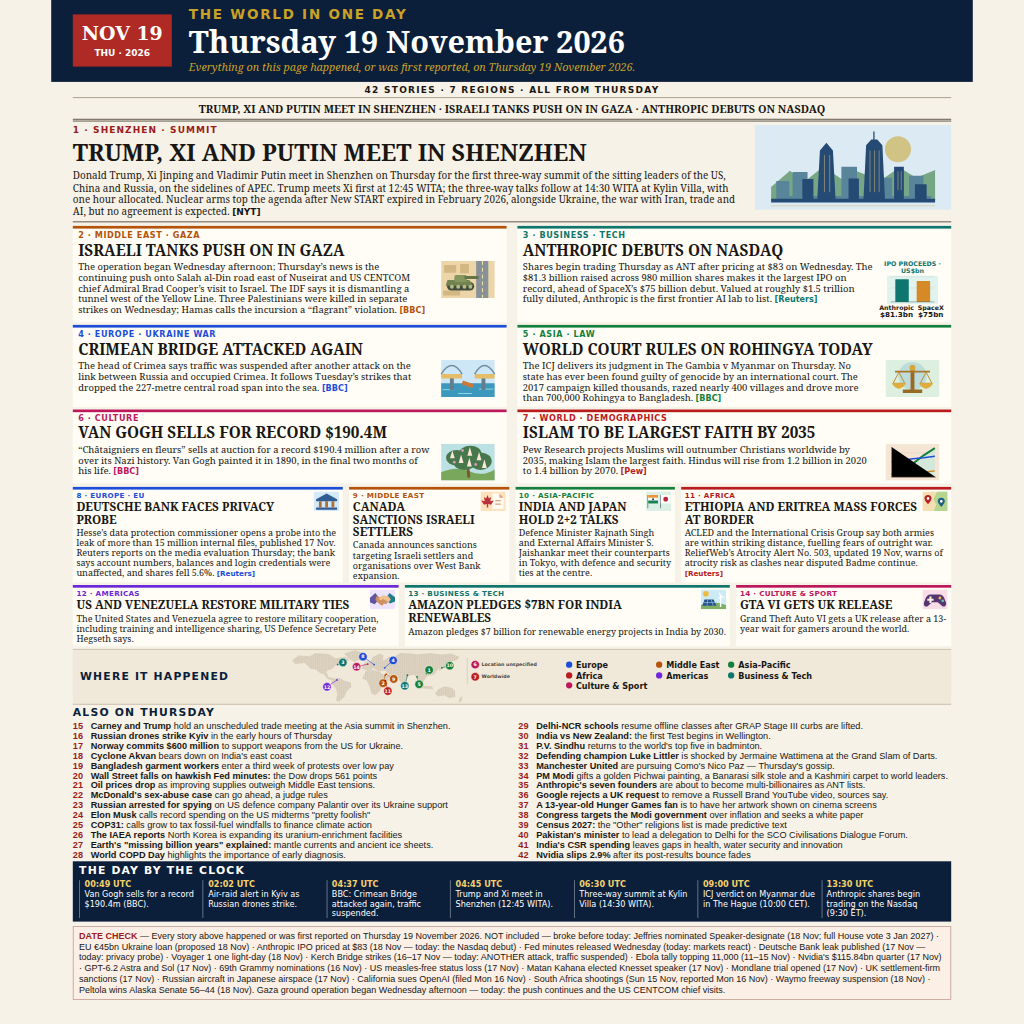
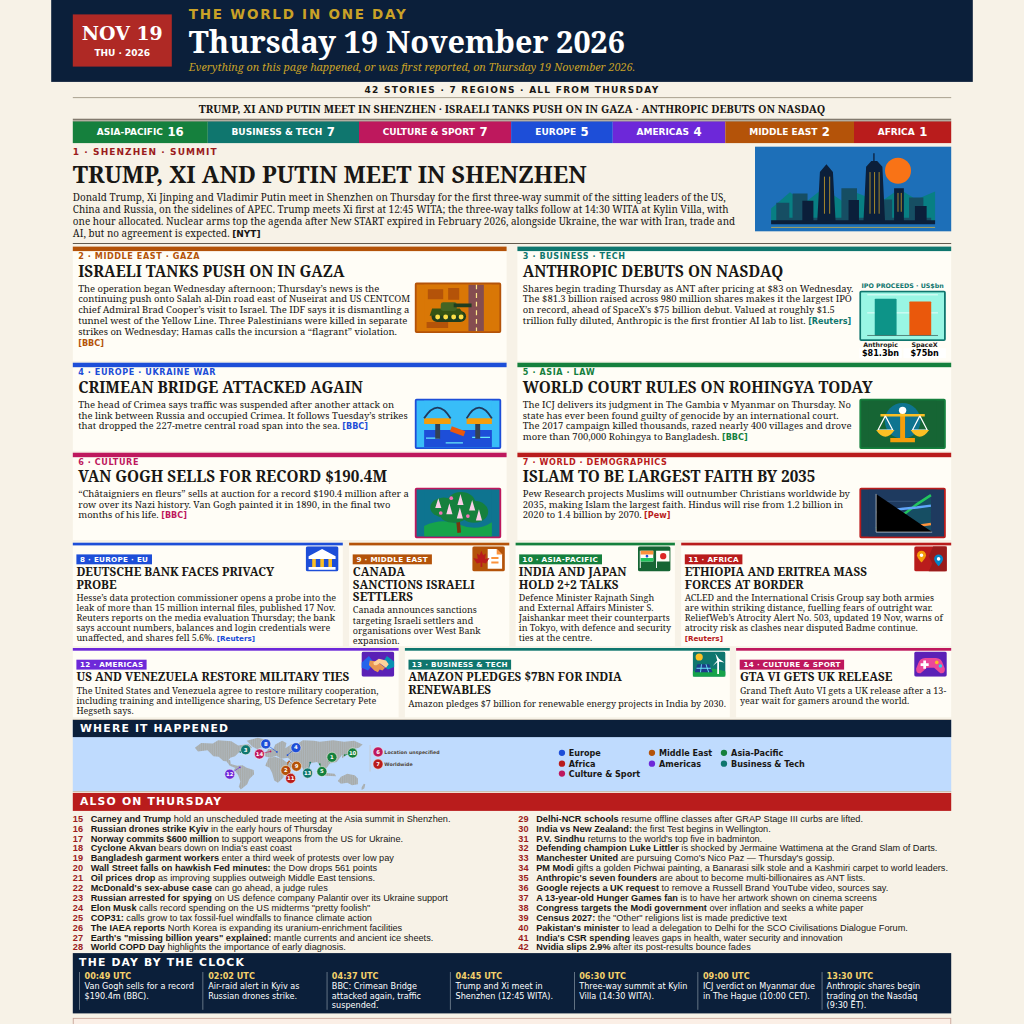
The World in One Day — 19 November 2026: saturated colour revision, region strip

diff --git a/page.html b/page.html
@@ -47,43 +47,55 @@
     .page-frame { width: 1024px; transform-origin: top center; }
     .masthead { padding-block: 8px; }
     .strap { padding-block: 3px; }
+    .region-strip { display: flex; height: 24px; margin: 0 24px; }
+    .region-strip span { flex: 1 0 auto; display: flex; align-items: center; justify-content: center; gap: 5px; background: var(--section); color: white; font: 700 10px/1 var(--labels); }
+    .region-strip strong { font-size: 13px; font-weight: 800; }
     .lead { padding-block: 4px; grid-template-columns: minmax(0, 1fr) 218px; }
     .lead h2 { font-size: 26px; }
     .summary { font-size: 11px; line-height: 1.22; }
-    .skyline { min-height: 94px; height: 94px; background: #dceaf3; }
-    #tier-2 { gap: 3px 12px; padding-block: 4px; }
-    .news-card { border-top-width: 3px; padding: 2px 6px 3px; }
+    .skyline { min-height: 94px; height: 94px; background: #1d6fb8; }
+    #tier-2 { gap: 2px 12px; padding-block: 3px; }
+    .news-card { padding: 1px 6px 2px; }
     .news-card .kicker { margin-bottom: 2px; }
     .news-card h2 { margin-bottom: 3px; font-size: 17px; }
     .news-card p.copy { font-size: 10.5px; line-height: 1.15; }
-    .card-art { width: 74px; margin: 0 0 0 5px; }
-    .card-art svg { height: 41px; }
-    .ipo svg { height: 32px; }
+    .card-art { width: 96px; margin: 0 0 0 5px; }
+    .card-art svg { height: 56px; border: 2px solid var(--section); background: var(--art-bg); }
+    .news-card:nth-child(1) { --art-bg: #d97706; }
+    .news-card:nth-child(2) { --art-bg: #99f6e4; }
+    .news-card:nth-child(3) { --art-bg: #38bdf8; }
+    .news-card:nth-child(4) { --art-bg: #166534; }
+    .news-card:nth-child(5) { --art-bg: #0e7490; }
+    .news-card:nth-child(6) { --art-bg: #1e3a5f; }
+    .ipo svg { height: 56px; }
     .chart-title, .chart-labels { font-size: 7px; line-height: 1; }
-    .chart-labels strong { font-size: 8px; }
+    .chart-labels strong { padding: 1px 0; background: white; color: #000; font-size: 9px; font-weight: 800; }
     .chart-title, .chart-labels { margin-block: 1px; }
 
-    #section-stories { display: grid; grid-template-columns: repeat(16, minmax(0, 1fr)); gap: 3px 7px; margin-bottom: 3px; }
-    .regional-card { grid-column: span 3; border-top: 3px solid var(--section); background: #fffdf6; padding: 2px 4px 2px; }
+    #section-stories { display: grid; grid-template-columns: repeat(16, minmax(0, 1fr)); gap: 2px 7px; margin-bottom: 2px; }
+    .regional-card { grid-column: span 3; border-top: 3px solid var(--section); background: #fffdf6; padding: 1px 4px 1px; }
     .regional-card:nth-child(1), .regional-card:nth-child(4) { grid-column: span 5; }
     .regional-card:nth-child(5), .regional-card:nth-child(6) { grid-column: span 6; }
     .regional-card:nth-child(7) { grid-column: span 4; }
-    .regional-card svg { float: right; width: 28px; height: 22px; margin-left: 3px; }
+    .regional-card svg { float: right; width: 38px; height: 28px; margin-left: 3px; }
     .regional-card p { margin: 0; font-size: 10px; line-height: 1.12; }
-    .regional-card .kicker { color: var(--section); font: 700 8px/1.15 var(--labels); letter-spacing: .04em; margin-bottom: 2px; }
+    .regional-card .kicker { display: inline-block; padding: 1px 4px; background: var(--section); color: white; font: 700 8px/1.15 var(--labels); letter-spacing: .04em; margin-bottom: 2px; }
     .regional-card h2 { margin: 0 0 2px; font-size: 13px; line-height: 1.05; }
     .regional-card .proof { color: var(--section); font-size: 8px; white-space: nowrap; }
 
     .panel-title { margin: 0; color: var(--navy); font: 700 12px/1.15 var(--labels); letter-spacing: .11em; }
-    #where-it-happened { display: grid; grid-template-columns: 190px 330px 1fr; align-items: center; gap: 10px; padding: 0 8px; border-block: 1px solid #c9bdab; background: #f0e8d9; }
+    #where-it-happened { display: grid; grid-template-columns: 530px 1fr; align-items: center; column-gap: 10px; border-block: 1px solid #c9bdab; background: #bfdbfe; }
+    #where-it-happened .panel-title, #also-on-thursday .panel-title { padding: 3px 8px; color: white; }
+    #where-it-happened .panel-title { grid-column: 1 / -1; background: var(--navy); }
+    #also-on-thursday .panel-title { background: #b91c1c; }
     #where-it-happened svg { display: block; width: 100%; height: 60px; }
     .map-legend { list-style: none; padding: 0; margin: 0; display: grid; grid-template-columns: repeat(3, max-content); gap: 2px 10px; font: 700 9px/1.05 var(--labels); }
     .map-legend li::before { content: ""; display: inline-block; width: 7px; height: 7px; margin-right: 4px; border-radius: 50%; background: var(--section); }
     .pin-head { stroke: #fff7e8; stroke-width: 1; }
-    .map-pin text { fill: white; text-anchor: middle; font: 700 9px var(--labels); }
+    .map-pin text { fill: white; text-anchor: middle; font: 800 10px var(--labels); }
     .map-note { fill: #51483b; font: 700 9px var(--labels); }
 
-    #also-on-thursday { padding: 2px 0; }
+    #also-on-thursday { padding: 1px 0; }
     #also-on-thursday ol { list-style: none; margin: 3px 0 0; padding: 0; display: grid; grid-auto-flow: column; grid-template-rows: repeat(14, auto); grid-template-columns: repeat(2, minmax(0, 1fr)); column-gap: 14px; }
     #also-on-thursday li { font: 10.2px/11px Arial, sans-serif; white-space: nowrap; }
     #also-on-thursday b { display: inline-block; width: 17px; color: #9b1c1c; }
@@ -109,6 +121,15 @@
     </div>
     <p class="strap count">42 STORIES · 7 REGIONS · ALL FROM THURSDAY</p>
     <p class="strap headlines">TRUMP, XI AND PUTIN MEET IN SHENZHEN · ISRAELI TANKS PUSH ON IN GAZA · ANTHROPIC DEBUTS ON NASDAQ</p>
+    <div class="region-strip" aria-label="Story totals by region">
+      <span style="--section:#15803d">ASIA-PACIFIC <strong>16</strong></span>
+      <span style="--section:#0f766e">BUSINESS &amp; TECH <strong>7</strong></span>
+      <span style="--section:#be185d">CULTURE &amp; SPORT <strong>7</strong></span>
+      <span style="--section:#1d4ed8">EUROPE <strong>5</strong></span>
+      <span style="--section:#6d28d9">AMERICAS <strong>4</strong></span>
+      <span style="--section:#b45309">MIDDLE EAST <strong>2</strong></span>
+      <span style="--section:#b91c1c">AFRICA <strong>1</strong></span>
+    </div>
   </header>
   <main>
     <article class="lead">
@@ -118,11 +139,11 @@
         <p class="summary">Donald Trump, Xi Jinping and Vladimir Putin meet in Shenzhen on Thursday for the first three-way summit of the sitting leaders of the US, China and Russia, on the sidelines of APEC. Trump meets Xi first at 12:45 WITA; the three-way talks follow at 14:30 WITA at Kylin Villa, with one hour allocated. Nuclear arms top the agenda after New START expired in February 2026, alongside Ukraine, the war with Iran, trade and AI, but no agreement is expected. <span class="proof">[NYT]</span></p>
       </div>
       <svg class="skyline" viewBox="0 0 252 130" role="img" aria-label="Schematic illustration of the Shenzhen skyline">
-        <circle cx="195" cy="37" r="20" fill="#c9a227" opacity=".55"/>
-        <path fill="#76a685" d="M0 95L29 70l22 17 29-23 30 20 22-13 36 14 29-20 26 16 29-12v46H0z"/>
-        <path fill="#588599" d="M8 109V86h20v23h5V72h23v37h52V64h24v45h36V81h18v28h26V78h22v31h12v8H8z"/>
-        <path fill="#254b75" d="M48 113V83h17v30h6L75 39l10-12 10 12 4 74h20V82h16v31h7l4-82 8-9h3V10h2v12h4l8 9 4 82h14V64h15v49h17V91h18v22h13v6H0v-6z"/>
-        <path fill="none" stroke="#d3bb75" opacity=".8" d="M82 46v57m8-57v57m62-64v64m7-64v64m7-64v64m29-32v29m5-29v29M0 124h252"/>
+        <circle cx="195" cy="37" r="20" fill="#f97316"/>
+        <path fill="#087f83" d="M0 95L29 70l22 17 29-23 30 20 22-13 36 14 29-20 26 16 29-12v46H0z"/>
+        <path fill="#164e63" d="M8 109V86h20v23h5V72h23v37h52V64h24v45h36V81h18v28h26V78h22v31h12v8H8z"/>
+        <path fill="#0b1f3a" d="M48 113V83h17v30h6L75 39l10-12 10 12 4 74h20V82h16v31h7l4-82 8-9h3V10h2v12h4l8 9 4 82h14V64h15v49h17V91h18v22h13v6H0v-6z"/>
+        <path fill="none" stroke="#fbbf24" d="M82 46v57m8-57v57m62-64v64m7-64v64m7-64v64m29-32v29m5-29v29M0 124h252"/>
       </svg>
     </article>
     <section id="tier-2" aria-label="Six major stories">
@@ -131,13 +152,13 @@
         <h2>ISRAELI TANKS PUSH ON IN GAZA</h2>
         <figure class="card-art">
           <svg viewBox="0 0 110 76" role="img" aria-label="Colored schematic of a tank beside the Salah al-Din road">
-            <path fill="#edd5aa" d="M0 0h110v76H0z"/><path fill="#879197" d="M72 0h25v76H72z"/>
-            <path stroke="#f8e9ac" stroke-width="2" stroke-dasharray="8 6" d="M85 0v76"/>
-            <path fill="#d3b782" d="M6 8h25v16H6zm33-2h18v19H39zM4 61h35v10H4z"/>
-            <rect x="12" y="43" width="56" height="18" rx="9" fill="#424c3c"/>
-            <path fill="#738451" d="M13 39h45l8 12H9z"/><rect x="27" y="29" width="26" height="14" rx="4" fill="#87965c"/>
-            <path stroke="#647449" stroke-width="6" d="M48 34h29"/>
-            <g fill="#b5bc86"><circle cx="22" cy="53" r="4"/><circle cx="35" cy="53" r="4"/><circle cx="48" cy="53" r="4"/><circle cx="60" cy="53" r="4"/></g>
+            <path fill="#d97706" d="M0 0h110v76H0z"/><path fill="#854d50" d="M72 0h25v76H72z"/>
+            <path stroke="#fde68a" stroke-width="2" stroke-dasharray="8 6" d="M85 0v76"/>
+            <path fill="#b45309" d="M6 8h25v16H6zm33-2h18v19H39zM4 61h35v10H4z"/>
+            <rect x="12" y="43" width="56" height="18" rx="9" fill="#1f3d1f"/>
+            <path fill="#365314" d="M13 39h45l8 12H9z"/><rect x="27" y="29" width="26" height="14" rx="4" fill="#446523"/>
+            <path stroke="#1f3d1f" stroke-width="6" d="M48 34h29"/>
+            <g fill="#fde047"><circle cx="22" cy="53" r="4"/><circle cx="35" cy="53" r="4"/><circle cx="48" cy="53" r="4"/><circle cx="60" cy="53" r="4"/></g>
           </svg>
         </figure>
         <p class="copy">The operation began Wednesday afternoon; Thursday’s news is the continuing push onto Salah al-Din road east of Nuseirat and US CENTCOM chief Admiral Brad Cooper’s visit to Israel. The IDF says it is dismantling a tunnel west of the Yellow Line. Three Palestinians were killed in separate strikes on Wednesday; Hamas calls the incursion a “flagrant” violation. <span class="proof">[BBC]</span></p>
@@ -148,10 +169,10 @@
         <figure class="card-art ipo">
           <figcaption class="chart-title">IPO PROCEEDS · US$bn</figcaption>
           <svg viewBox="0 0 110 62" role="img" aria-label="Bar chart from zero: Anthropic raises 81.3 billion dollars versus SpaceX at 75 billion">
-            <path fill="#e1f3ee" d="M0 0h110v62H0z"/>
-            <path stroke="#c2d8d1" d="M8 27h94M8 3h94"/>
-            <rect x="18" y="8.22" width="29" height="48.78" rx="1" fill="#0f766e"/>
-            <rect x="64" y="12" width="29" height="45" rx="1" fill="#d58a27"/>
+            <path fill="#99f6e4" d="M0 0h110v62H0z"/>
+            <path stroke="#ffffff" d="M8 27h94M8 3h94"/>
+            <rect x="18" y="8.22" width="29" height="48.78" rx="1" fill="#0d9488"/>
+            <rect x="64" y="12" width="29" height="45" rx="1" fill="#ea580c"/>
             <path stroke="#3c5f59" d="M8 57h94"/>
           </svg>
           <div class="chart-labels"><span>Anthropic<strong>$81.3bn</strong></span><span>SpaceX<strong>$75bn</strong></span></div>
@@ -163,12 +184,12 @@
         <h2>CRIMEAN BRIDGE ATTACKED AGAIN</h2>
         <figure class="card-art">
           <svg viewBox="0 0 110 76" role="img" aria-label="Colored bridge schematic with a broken central road span over blue water">
-            <path fill="#cde7f6" d="M0 0h110v76H0z"/><path fill="#3d98bd" d="M0 48h110v28H0z"/>
-            <path stroke="#8ed7e3" stroke-width="2" d="M3 61h22m10 8h28m15-9h29"/>
-            <path fill="#647d8c" d="M18 31h8v31h-8zm65 0h8v31h-8z"/>
-            <path fill="#e5bc67" d="M0 29h43v9H0zm69 0h41v9H69z"/>
-            <path fill="#c87a3d" d="m45 42 22 8-3 8-22-8z"/>
-            <path stroke="#718fa2" stroke-width="3" fill="none" d="M0 29Q22-6 43 29m26 0Q89-6 110 29"/>
+            <path fill="#38bdf8" d="M0 0h110v76H0z"/><path fill="#1d4ed8" d="M0 48h110v28H0z"/>
+            <path stroke="#67e8f9" stroke-width="2" d="M3 61h22m10 8h28m15-9h29"/>
+            <path fill="#334155" d="M18 31h8v31h-8zm65 0h8v31h-8z"/>
+            <path fill="#f59e0b" d="M0 29h43v9H0zm69 0h41v9H69z"/>
+            <path fill="#ea580c" d="m45 42 22 8-3 8-22-8z"/>
+            <path stroke="#1e3a5f" stroke-width="3" fill="none" d="M0 29Q22-6 43 29m26 0Q89-6 110 29"/>
           </svg>
         </figure>
         <p class="copy">The head of Crimea says traffic was suspended after another attack on the link between Russia and occupied Crimea. It follows Tuesday’s strikes that dropped the 227-metre central road span into the sea. <span class="proof">[BBC]</span></p>
@@ -178,11 +199,11 @@
         <h2>WORLD COURT RULES ON ROHINGYA TODAY</h2>
         <figure class="card-art">
           <svg viewBox="0 0 110 76" role="img" aria-label="Golden scales of justice on a green and blue background">
-            <path fill="#ddefdf" d="M0 0h110v76H0z"/><circle cx="55" cy="33" r="29" fill="#bedcdb"/>
-            <path fill="#986b25" d="M51 18h8v43h-8zM35 61h40v7H35z"/>
-            <circle cx="55" cy="16" r="6" fill="#d6a63a"/><path stroke="#aa7628" stroke-width="4" d="M19 24h72"/>
-            <path stroke="#bb8b2e" stroke-width="2" fill="none" d="m27 25-12 23h24L27 25m56 0L71 48h24L83 25"/>
-            <path fill="#e1ac3c" d="M12 48h30q-15 22-30 0m56 0h30q-15 22-30 0"/>
+            <path fill="#166534" d="M0 0h110v76H0z"/><circle cx="55" cy="33" r="29" fill="#0e7490"/>
+            <path fill="#f59e0b" d="M51 18h8v43h-8zM35 61h40v7H35z"/>
+            <circle cx="55" cy="16" r="6" fill="#ffffff"/><path stroke="#fbbf24" stroke-width="4" d="M19 24h72"/>
+            <path stroke="#ffffff" stroke-width="2" fill="none" d="m27 25-12 23h24L27 25m56 0L71 48h24L83 25"/>
+            <path fill="#fbbf24" d="M12 48h30q-15 22-30 0m56 0h30q-15 22-30 0"/>
           </svg>
         </figure>
         <p class="copy">The ICJ delivers its judgment in The Gambia v Myanmar on Thursday. No state has ever been found guilty of genocide by an international court. The 2017 campaign killed thousands, razed nearly 400 villages and drove more than 700,000 Rohingya to Bangladesh. <span class="proof">[BBC]</span></p>
@@ -192,11 +213,11 @@
         <h2>VAN GOGH SELLS FOR RECORD $190.4M</h2>
         <figure class="card-art">
           <svg viewBox="0 0 110 76" role="img" aria-label="Original colored schematic of a flowering chestnut tree">
-            <path fill="#bce1e5" d="M0 0h110v76H0z"/><path fill="#79a85c" d="M0 59q30-14 58-2t52-4v23H0z"/>
-            <path stroke="#805335" stroke-width="6" fill="none" d="M57 70 53 30m2 19L31 29m24 12 23-20"/>
-            <g fill="#47784b"><ellipse cx="32" cy="29" rx="22" ry="16"/><ellipse cx="60" cy="21" rx="23" ry="17"/><ellipse cx="81" cy="36" rx="23" ry="18"/><ellipse cx="48" cy="41" rx="22" ry="13"/></g>
-            <g fill="#fce5da"><path d="m23 14-5 16h10zm18 8-5 18h10zM59 7l-5 18h10zm19 10-5 17h10zm11 15-5 18h10zM58 29l-5 18h10z"/></g>
-            <g fill="#d49aaf"><circle cx="27" cy="38" r="3"/><circle cx="71" cy="43" r="3"/><circle cx="44" cy="14" r="3"/></g>
+            <path fill="#0e7490" d="M0 0h110v76H0z"/><path fill="#16a34a" d="M0 59q30-14 58-2t52-4v23H0z"/>
+            <path stroke="#78350f" stroke-width="6" fill="none" d="M57 70 53 30m2 19L31 29m24 12 23-20"/>
+            <g fill="#15803d"><ellipse cx="32" cy="29" rx="22" ry="16"/><ellipse cx="60" cy="21" rx="23" ry="17"/><ellipse cx="81" cy="36" rx="23" ry="18"/><ellipse cx="48" cy="41" rx="22" ry="13"/></g>
+            <g fill="#fbcfe8"><path d="m23 14-5 16h10zm18 8-5 18h10zM59 7l-5 18h10zm19 10-5 17h10zm11 15-5 18h10zM58 29l-5 18h10z"/></g>
+            <g fill="#f472b6"><circle cx="27" cy="38" r="3"/><circle cx="71" cy="43" r="3"/><circle cx="44" cy="14" r="3"/></g>
           </svg>
         </figure>
         <p class="copy">“Châtaigniers en fleurs” sells at auction for a record $190.4 million after a row over its Nazi history. Van Gogh painted it in 1890, in the final two months of his life. <span class="proof">[BBC]</span></p>
@@ -206,48 +227,48 @@
         <h2>ISLAM TO BE LARGEST FAITH BY 2035</h2>
         <figure class="card-art">
           <svg viewBox="0 0 110 76" role="img" aria-label="Illustrative rising lines for religious population trends; schematic, not a quantitative plot">
-            <path fill="#f4e5d5" d="M0 0h110v76H0z"/>
-            <path stroke="#dfccbb" d="M12 19h89M12 37h89M12 55h89"/>
-            <path fill="#d3e7da" d="m12 63 22-9 22-13 22-17 23-15v57H12z"/>
-            <path stroke="#15803d" stroke-width="4" fill="none" d="m12 63 22-9 22-13 22-17 23-15"/>
-            <path stroke="#1d4ed8" stroke-width="3" fill="none" d="m12 37 22-3 22-3 22-2 23-3"/>
-            <path stroke="#ce8422" stroke-width="3" fill="none" d="m12 66 22-2 22-2 22-3 23-3"/>
-            <path stroke="#8c7562" d="M12 7v62h91"/>
+            <path fill="#1e3a5f" d="M0 0h110v76H0z"/>
+            <path stroke="#45668c" d="M12 19h89M12 37h89M12 55h89"/>
+            <path fill="#164e63" d="m12 63 22-9 22-13 22-17 23-15v57H12z"/>
+            <path stroke="#22c55e" stroke-width="4" fill="none" d="m12 63 22-9 22-13 22-17 23-15"/>
+            <path stroke="#60a5fa" stroke-width="4" fill="none" d="m12 37 22-3 22-3 22-2 23-3"/>
+            <path stroke="#fb923c" stroke-width="4" fill="none" d="m12 66 22-2 22-2 22-3 23-3"/>
+            <path stroke="#ffffff" d="M12 7v62h91"/>
           </svg>
         </figure>
         <p class="copy">Pew Research projects Muslims will outnumber Christians worldwide by 2035, making Islam the largest faith. Hindus will rise from 1.2 billion in 2020 to 1.4 billion by 2070. <span class="proof">[Pew]</span></p>
       </article>
     </section>
     <section id="section-stories" aria-label="Seven regional stories">
-      <article class="regional-card" style="--section:#1d4ed8"><svg viewBox="0 0 36 28" aria-hidden="true"><rect width="36" height="28" rx="2" fill="#d4eafa"/><path fill="#315b93" d="M3 11 18 3l15 8v3H3zM3 23h30v3H3z"/><path fill="#ac7135" d="M7 14h4v9H7zm9 0h4v9h-4zm9 0h4v9h-4z"/></svg><p class="kicker">8 · EUROPE · EU</p><h2>DEUTSCHE BANK FACES PRIVACY PROBE</h2><p>Hesse’s data protection commissioner opens a probe into the leak of more than 15 million internal files, published 17 Nov. Reuters reports on the media evaluation Thursday; the bank says account numbers, balances and login credentials were unaffected, and shares fell 5.6%. <span class="proof">[Reuters]</span></p></article>
-      <article class="regional-card" style="--section:#b45309"><svg viewBox="0 0 36 28" aria-hidden="true"><rect width="36" height="28" rx="2" fill="#ffe1bb"/><path fill="#fffaf1" d="M17 3h10l6 6v16H17z"/><path fill="#d8a47c" d="M27 3v6h6zM21 12h8v2h-8zm0 5h8v2h-8z"/><path fill="#bb303b" d="m10 5 2 5 3-2-1 6 5-1-4 6-4-1v5H9v-5l-4 1-4-6 5 1-1-6 3 2z"/></svg><p class="kicker">9 · MIDDLE EAST</p><h2>CANADA SANCTIONS ISRAELI SETTLERS</h2><p>Canada announces sanctions targeting Israeli settlers and organisations over West Bank expansion.</p></article>
-      <article class="regional-card" style="--section:#15803d"><svg viewBox="0 0 36 28" aria-hidden="true"><rect width="36" height="28" rx="2" fill="#dbefe5"/><path fill="#456570" d="M2 5h1v19H2zm18 0h1v19h-1z"/><path fill="#fffdf7" d="M3 5h14v12H3zm18 0h14v12H21z"/><path fill="#ef9535" d="M3 5h14v4H3z"/><path fill="#168253" d="M3 13h14v4H3z"/><path fill="#193d90" d="M10 9.5a1.5 1.5 0 1 0 0 3a1.5 1.5 0 1 0 0-3"/><path fill="#be2541" d="M28 7.5a3.5 3.5 0 1 0 0 7a3.5 3.5 0 1 0 0-7"/></svg><p class="kicker">10 · ASIA-PACIFIC</p><h2>INDIA AND JAPAN HOLD 2+2 TALKS</h2><p>Defence Minister Rajnath Singh and External Affairs Minister S. Jaishankar meet their counterparts in Tokyo, with defence and security ties at the centre.</p></article>
-      <article class="regional-card" style="--section:#b91c1c"><svg viewBox="0 0 36 28" aria-hidden="true"><rect width="36" height="28" rx="2" fill="#f4dfb2"/><path fill="#b4d58d" d="M21 0h15v28H16l4-9-4-8z"/><path fill="#b91c1c" d="M8 5a5 5 0 0 0-5 5c0 3 5 8 5 8s5-5 5-8a5 5 0 0 0-5-5"/><path fill="#215f85" d="M27 9a5 5 0 0 0-5 5c0 3 5 8 5 8s5-5 5-8a5 5 0 0 0-5-5"/><path fill="#fff" d="M8 8a2 2 0 1 0 0 4a2 2 0 1 0 0-4m19 4a2 2 0 1 0 0 4a2 2 0 1 0 0-4"/></svg><p class="kicker">11 · AFRICA</p><h2>ETHIOPIA AND ERITREA MASS FORCES AT BORDER</h2><p>ACLED and the International Crisis Group say both armies are within striking distance, fuelling fears of outright war. ReliefWeb’s Atrocity Alert No. 503, updated 19 Nov, warns of atrocity risk as clashes near disputed Badme continue. <span class="proof">[Reuters]</span></p></article>
-      <article class="regional-card" style="--section:#6d28d9"><svg viewBox="0 0 36 28" aria-hidden="true"><rect width="36" height="28" rx="2" fill="#eee3ff"/><path fill="#6054a0" d="m0 12 8-7 6 8-7 8L0 18z"/><path fill="#227f89" d="m36 11-8-6-6 9 7 6 7-3z"/><path fill="#d09060" d="m9 10 8 1 9 7-3 3-3-1-2 3-4-2-6-6z"/><path fill="#f2bf8d" d="m27 10-8-2-6 4q0 4 4 3l3-2 7 5 3-4z"/></svg><p class="kicker">12 · AMERICAS</p><h2>US AND VENEZUELA RESTORE MILITARY TIES</h2><p>The United States and Venezuela agree to restore military cooperation, including training and intelligence sharing, US Defence Secretary Pete Hegseth says.</p></article>
-      <article class="regional-card" style="--section:#0f766e"><svg viewBox="0 0 36 28" aria-hidden="true"><rect width="36" height="28" rx="2" fill="#cdebf4"/><path fill="#7fb065" d="M0 22q14-7 36 0v6H0z"/><path fill="#f1b93e" d="M7 2a4 4 0 1 0 0 8a4 4 0 1 0 0-8"/><path fill="#285089" d="M5 14h13l4 9H2z"/><path fill="#85badd" d="M4 18h16v1H4zm5-4h1l-1 9H8zm5 0h1l3 9h-1z"/><path fill="#fff" d="M27 9h2v16h-2zM27 10l-2-8 4 6 6 4-7-1-6 5z"/></svg><p class="kicker">13 · BUSINESS &amp; TECH</p><h2>AMAZON PLEDGES $7BN FOR INDIA RENEWABLES</h2><p>Amazon pledges $7 billion for renewable energy projects in India by 2030.</p></article>
-      <article class="regional-card" style="--section:#be185d"><svg viewBox="0 0 36 28" aria-hidden="true"><rect width="36" height="28" rx="2" fill="#f8dce8"/><path fill="#54376f" d="M12 7h12q6 0 8 7l2 5q0 6-5 5l-7-6h-8l-7 6q-5 1-5-5l2-5q2-7 8-7"/><path fill="#fff1df" d="M10 10h3v3h3v3h-3v3h-3v-3H7v-3h3z"/><path fill="#f8b74f" d="M25 10a2 2 0 1 0 0 4a2 2 0 1 0 0-4"/><path fill="#57c3b9" d="M29 14a2 2 0 1 0 0 4a2 2 0 1 0 0-4"/></svg><p class="kicker">14 · CULTURE &amp; SPORT</p><h2>GTA VI GETS UK RELEASE</h2><p>Grand Theft Auto VI gets a UK release after a 13-year wait for gamers around the world.</p></article>
+      <article class="regional-card" style="--section:#1d4ed8"><svg viewBox="0 0 36 28" aria-hidden="true"><rect width="36" height="28" rx="2" fill="#1d4ed8"/><path fill="#fff" d="M3 11 18 3l15 8v3H3zM3 23h30v3H3z"/><path fill="#fbbf24" d="M7 14h4v9H7zm9 0h4v9h-4zm9 0h4v9h-4z"/></svg><p class="kicker">8 · EUROPE · EU</p><h2>DEUTSCHE BANK FACES PRIVACY PROBE</h2><p>Hesse’s data protection commissioner opens a probe into the leak of more than 15 million internal files, published 17 Nov. Reuters reports on the media evaluation Thursday; the bank says account numbers, balances and login credentials were unaffected, and shares fell 5.6%. <span class="proof">[Reuters]</span></p></article>
+      <article class="regional-card" style="--section:#b45309"><svg viewBox="0 0 36 28" aria-hidden="true"><rect width="36" height="28" rx="2" fill="#b45309"/><path fill="#fff" d="M17 3h10l6 6v16H17z"/><path fill="#fb923c" d="M27 3v6h6zM21 12h8v2h-8zm0 5h8v2h-8z"/><path fill="#b91c1c" d="m10 5 2 5 3-2-1 6 5-1-4 6-4-1v5H9v-5l-4 1-4-6 5 1-1-6 3 2z"/></svg><p class="kicker">9 · MIDDLE EAST</p><h2>CANADA SANCTIONS ISRAELI SETTLERS</h2><p>Canada announces sanctions targeting Israeli settlers and organisations over West Bank expansion.</p></article>
+      <article class="regional-card" style="--section:#15803d"><svg viewBox="0 0 36 28" aria-hidden="true"><rect width="36" height="28" rx="2" fill="#166534"/><path fill="#fff" d="M2 5h1v19H2zm18 0h1v19h-1z"/><path fill="#fffdf7" d="M3 5h14v12H3zm18 0h14v12H21z"/><path fill="#fb923c" d="M3 5h14v4H3z"/><path fill="#22c55e" d="M3 13h14v4H3z"/><path fill="#1d4ed8" d="M10 9.5a1.5 1.5 0 1 0 0 3a1.5 1.5 0 1 0 0-3"/><path fill="#dc2626" d="M28 7.5a3.5 3.5 0 1 0 0 7a3.5 3.5 0 1 0 0-7"/></svg><p class="kicker">10 · ASIA-PACIFIC</p><h2>INDIA AND JAPAN HOLD 2+2 TALKS</h2><p>Defence Minister Rajnath Singh and External Affairs Minister S. Jaishankar meet their counterparts in Tokyo, with defence and security ties at the centre.</p></article>
+      <article class="regional-card" style="--section:#b91c1c"><svg viewBox="0 0 36 28" aria-hidden="true"><rect width="36" height="28" rx="2" fill="#b91c1c"/><path fill="#991b1b" d="M21 0h15v28H16l4-9-4-8z"/><path fill="#f59e0b" d="M8 5a5 5 0 0 0-5 5c0 3 5 8 5 8s5-5 5-8a5 5 0 0 0-5-5"/><path fill="#0284c7" d="M27 9a5 5 0 0 0-5 5c0 3 5 8 5 8s5-5 5-8a5 5 0 0 0-5-5"/><path fill="#fff" d="M8 8a2 2 0 1 0 0 4a2 2 0 1 0 0-4m19 4a2 2 0 1 0 0 4a2 2 0 1 0 0-4"/></svg><p class="kicker">11 · AFRICA</p><h2>ETHIOPIA AND ERITREA MASS FORCES AT BORDER</h2><p>ACLED and the International Crisis Group say both armies are within striking distance, fuelling fears of outright war. ReliefWeb’s Atrocity Alert No. 503, updated 19 Nov, warns of atrocity risk as clashes near disputed Badme continue. <span class="proof">[Reuters]</span></p></article>
+      <article class="regional-card" style="--section:#6d28d9"><svg viewBox="0 0 36 28" aria-hidden="true"><rect width="36" height="28" rx="2" fill="#5b21b6"/><path fill="#2563eb" d="m0 12 8-7 6 8-7 8L0 18z"/><path fill="#0891b2" d="m36 11-8-6-6 9 7 6 7-3z"/><path fill="#e89753" d="m9 10 8 1 9 7-3 3-3-1-2 3-4-2-6-6z"/><path fill="#ffd39b" d="m27 10-8-2-6 4q0 4 4 3l3-2 7 5 3-4z"/></svg><p class="kicker">12 · AMERICAS</p><h2>US AND VENEZUELA RESTORE MILITARY TIES</h2><p>The United States and Venezuela agree to restore military cooperation, including training and intelligence sharing, US Defence Secretary Pete Hegseth says.</p></article>
+      <article class="regional-card" style="--section:#0f766e"><svg viewBox="0 0 36 28" aria-hidden="true"><rect width="36" height="28" rx="2" fill="#0f766e"/><path fill="#16a34a" d="M0 22q14-7 36 0v6H0z"/><path fill="#fbbf24" d="M7 2a4 4 0 1 0 0 8a4 4 0 1 0 0-8"/><path fill="#1e3a8a" d="M5 14h13l4 9H2z"/><path fill="#67e8f9" d="M4 18h16v1H4zm5-4h1l-1 9H8zm5 0h1l3 9h-1z"/><path fill="#fff" d="M27 9h2v16h-2zM27 10l-2-8 4 6 6 4-7-1-6 5z"/></svg><p class="kicker">13 · BUSINESS &amp; TECH</p><h2>AMAZON PLEDGES $7BN FOR INDIA RENEWABLES</h2><p>Amazon pledges $7 billion for renewable energy projects in India by 2030.</p></article>
+      <article class="regional-card" style="--section:#be185d"><svg viewBox="0 0 36 28" aria-hidden="true"><rect width="36" height="28" rx="2" fill="#5b21b6"/><path fill="#ec4899" d="M12 7h12q6 0 8 7l2 5q0 6-5 5l-7-6h-8l-7 6q-5 1-5-5l2-5q2-7 8-7"/><path fill="#fff" d="M10 10h3v3h3v3h-3v3h-3v-3H7v-3h3z"/><path fill="#fbbf24" d="M25 10a2 2 0 1 0 0 4a2 2 0 1 0 0-4"/><path fill="#22d3ee" d="M29 14a2 2 0 1 0 0 4a2 2 0 1 0 0-4"/></svg><p class="kicker">14 · CULTURE &amp; SPORT</p><h2>GTA VI GETS UK RELEASE</h2><p>Grand Theft Auto VI gets a UK release after a 13-year wait for gamers around the world.</p></article>
     </section>
     <section id="where-it-happened">
       <h2 class="panel-title">WHERE IT HAPPENED</h2>
       <svg viewBox="0 0 458 102" role="img" aria-label="Dotted world map: numbered story pins show locations or geographic focus. Story 6 has no location in the source; story 7 is worldwide.">
-        <defs><pattern id="land-dots" width="3.5" height="3.5" patternUnits="userSpaceOnUse"><circle cx="1.65" cy="1.65" r="1.05" fill="#a39276"/></pattern></defs>
+        <defs><pattern id="land-dots" width="3.5" height="3.5" patternUnits="userSpaceOnUse"><circle cx="1.65" cy="1.65" r="1.25" fill="#8a6d3b"/></pattern></defs>
         <path fill="url(#land-dots)" d="M9 20l12-9 22 1 10-6 25 2 13 8 19-3 7 6-9 8-15 1-8 8-9 3-5 7-8-1-9-8-10-1-11-11-18 2z M68 38l8 6 1 7 12 3-2 5-12-5-6-8z M89 54l10-1 8 5 13 4 1 8-9 9-4 10-12 10-4-5 3-10-4-12-8-11z M107 7l21-6 16 4-6 13-11 5-9-5z M142 31l6-9 9 1 4-9 13-7 8 4-2 10 12-8 9 1 12-8 21 1 11 2 25-3 21 3 19-2 16 7-7 6-15 4-4 9-13 1-10 13-13 3-7 10-9-3-8-10-11 2-8 14-7-2-8-13-13-1-8-8-13 2-9-6-12 4-10-3z M148 40l12-3 15 5 9 7 9 1-2 8-12 7-3 12-10 9-7-4-4-14-5-10-8-4z M193 44l9 3 5 10-7 5-6-8z M247 53l9 8 2 7 15 1 3 5-20-1-6-6z M285 75l12-6 14 3 6 6v11l-11 2-9-5-12 2-6-5z M324 95l4-7 3 1-2 8-5 3z M189 74l4-4 1 6-5 7z M287 36l4-8 3 2-1 6-6 4z"/>
         <path d="M340 15v50" stroke="#c9bdab"/>
         <g class="map-note"><text x="367" y="31">Location unspecified</text><text x="367" y="54">Worldwide</text></g>
-        <g class="map-pin" fill="#15803d"><path d="M268 38L263 45" stroke="#15803d" stroke-width="1.15"/><circle cx="263" cy="45" r="1.65"/><circle class="pin-head" cx="268" cy="38" r="8"/><text x="268" y="41.4">1</text></g>
-        <g class="map-pin" fill="#b45309"><path d="M181 63L185 48" stroke="#b45309" stroke-width="1.15"/><circle cx="185" cy="48" r="1.65"/><circle class="pin-head" cx="181" cy="63" r="8"/><text x="181" y="66.4">2</text></g>
-        <g class="map-pin" fill="#0f766e"><path d="M105 24L95 28" stroke="#0f766e" stroke-width="1.15"/><circle cx="95" cy="28" r="1.65"/><circle class="pin-head" cx="105" cy="24" r="8"/><text x="105" y="27.4">3</text></g>
-        <g class="map-pin" fill="#1d4ed8"><path d="M200 20L184 34" stroke="#1d4ed8" stroke-width="1.15"/><circle cx="184" cy="34" r="1.65"/><circle class="pin-head" cx="200" cy="20" r="8"/><text x="200" y="23.4">4</text></g>
-        <g class="map-pin" fill="#15803d"><path d="M249 65L245 51" stroke="#15803d" stroke-width="1.15"/><circle cx="245" cy="51" r="1.65"/><circle class="pin-head" cx="249" cy="65" r="8"/><text x="249" y="68.4">5</text></g>
-        <g class="map-pin" fill="#be185d"><path d="M355 28L355 28" stroke="#be185d" stroke-width="1.15"/><circle cx="355" cy="28" r="1.65"/><circle class="pin-head" cx="355" cy="28" r="8"/><text x="355" y="31.4">6</text></g>
-        <g class="map-pin" fill="#b91c1c"><path d="M355 51L355 51" stroke="#b91c1c" stroke-width="1.15"/><circle cx="355" cy="51" r="1.65"/><circle class="pin-head" cx="355" cy="51" r="8"/><text x="355" y="54.4">7</text></g>
-        <g class="map-pin" fill="#1d4ed8"><path d="M143 13L164 28" stroke="#1d4ed8" stroke-width="1.15"/><circle cx="164" cy="28" r="1.65"/><circle class="pin-head" cx="143" cy="13" r="8"/><text x="143" y="16.4">8</text></g>
-        <g class="map-pin" fill="#b45309"><path d="M201 55L187 46" stroke="#b45309" stroke-width="1.15"/><circle cx="187" cy="46" r="1.65"/><circle class="pin-head" cx="201" cy="55" r="8"/><text x="201" y="58.4">9</text></g>
-        <g class="map-pin" fill="#15803d"><path d="M307 30L292 34" stroke="#15803d" stroke-width="1.15"/><circle cx="292" cy="34" r="1.65"/><circle class="pin-head" cx="307" cy="30" r="8"/><text x="307" y="33.4">10</text></g>
-        <g class="map-pin" fill="#b91c1c"><path d="M190 78L185 58" stroke="#b91c1c" stroke-width="1.15"/><circle cx="185" cy="58" r="1.65"/><circle class="pin-head" cx="190" cy="78" r="8"/><text x="190" y="81.4">11</text></g>
-        <g class="map-pin" fill="#6d28d9"><path d="M75 70L94 57" stroke="#6d28d9" stroke-width="1.15"/><circle cx="94" cy="57" r="1.65"/><circle class="pin-head" cx="75" cy="70" r="8"/><text x="75" y="73.4">12</text></g>
-        <g class="map-pin" fill="#0f766e"><path d="M222 68L227 48" stroke="#0f766e" stroke-width="1.15"/><circle cx="227" cy="48" r="1.65"/><circle class="pin-head" cx="222" cy="68" r="8"/><text x="222" y="71.4">13</text></g>
-        <g class="map-pin" fill="#be185d"><path d="M131 32L152 27" stroke="#be185d" stroke-width="1.15"/><circle cx="152" cy="27" r="1.65"/><circle class="pin-head" cx="131" cy="32" r="8"/><text x="131" y="35.4">14</text></g>
+        <g class="map-pin" fill="#15803d"><path d="M268 38L263 45" stroke="#15803d" stroke-width="1.15"/><circle cx="263" cy="45" r="1.65"/><circle class="pin-head" cx="268" cy="38" r="9.5"/><text x="268" y="41.4">1</text></g>
+        <g class="map-pin" fill="#b45309"><path d="M181 63L185 48" stroke="#b45309" stroke-width="1.15"/><circle cx="185" cy="48" r="1.65"/><circle class="pin-head" cx="181" cy="63" r="9.5"/><text x="181" y="66.4">2</text></g>
+        <g class="map-pin" fill="#0f766e"><path d="M105 24L95 28" stroke="#0f766e" stroke-width="1.15"/><circle cx="95" cy="28" r="1.65"/><circle class="pin-head" cx="105" cy="24" r="9.5"/><text x="105" y="27.4">3</text></g>
+        <g class="map-pin" fill="#1d4ed8"><path d="M200 20L184 34" stroke="#1d4ed8" stroke-width="1.15"/><circle cx="184" cy="34" r="1.65"/><circle class="pin-head" cx="200" cy="20" r="9.5"/><text x="200" y="23.4">4</text></g>
+        <g class="map-pin" fill="#15803d"><path d="M249 65L245 51" stroke="#15803d" stroke-width="1.15"/><circle cx="245" cy="51" r="1.65"/><circle class="pin-head" cx="249" cy="65" r="9.5"/><text x="249" y="68.4">5</text></g>
+        <g class="map-pin" fill="#be185d"><path d="M355 28L355 28" stroke="#be185d" stroke-width="1.15"/><circle cx="355" cy="28" r="1.65"/><circle class="pin-head" cx="355" cy="28" r="9.5"/><text x="355" y="31.4">6</text></g>
+        <g class="map-pin" fill="#b91c1c"><path d="M355 51L355 51" stroke="#b91c1c" stroke-width="1.15"/><circle cx="355" cy="51" r="1.65"/><circle class="pin-head" cx="355" cy="51" r="9.5"/><text x="355" y="54.4">7</text></g>
+        <g class="map-pin" fill="#1d4ed8"><path d="M143 13L164 28" stroke="#1d4ed8" stroke-width="1.15"/><circle cx="164" cy="28" r="1.65"/><circle class="pin-head" cx="143" cy="13" r="9.5"/><text x="143" y="16.4">8</text></g>
+        <g class="map-pin" fill="#b45309"><path d="M201 55L187 46" stroke="#b45309" stroke-width="1.15"/><circle cx="187" cy="46" r="1.65"/><circle class="pin-head" cx="201" cy="55" r="9.5"/><text x="201" y="58.4">9</text></g>
+        <g class="map-pin" fill="#15803d"><path d="M307 30L292 34" stroke="#15803d" stroke-width="1.15"/><circle cx="292" cy="34" r="1.65"/><circle class="pin-head" cx="307" cy="30" r="9.5"/><text x="307" y="33.4">10</text></g>
+        <g class="map-pin" fill="#b91c1c"><path d="M190 78L185 58" stroke="#b91c1c" stroke-width="1.15"/><circle cx="185" cy="58" r="1.65"/><circle class="pin-head" cx="190" cy="78" r="9.5"/><text x="190" y="81.4">11</text></g>
+        <g class="map-pin" fill="#6d28d9"><path d="M75 70L94 57" stroke="#6d28d9" stroke-width="1.15"/><circle cx="94" cy="57" r="1.65"/><circle class="pin-head" cx="75" cy="70" r="9.5"/><text x="75" y="73.4">12</text></g>
+        <g class="map-pin" fill="#0f766e"><path d="M222 68L227 48" stroke="#0f766e" stroke-width="1.15"/><circle cx="227" cy="48" r="1.65"/><circle class="pin-head" cx="222" cy="68" r="9.5"/><text x="222" y="71.4">13</text></g>
+        <g class="map-pin" fill="#be185d"><path d="M131 32L152 27" stroke="#be185d" stroke-width="1.15"/><circle cx="152" cy="27" r="1.65"/><circle class="pin-head" cx="131" cy="32" r="9.5"/><text x="131" y="35.4">14</text></g>
       </svg>
       <ul class="map-legend" aria-label="Map legend">
         <li style="--section:#1d4ed8">Europe</li>
